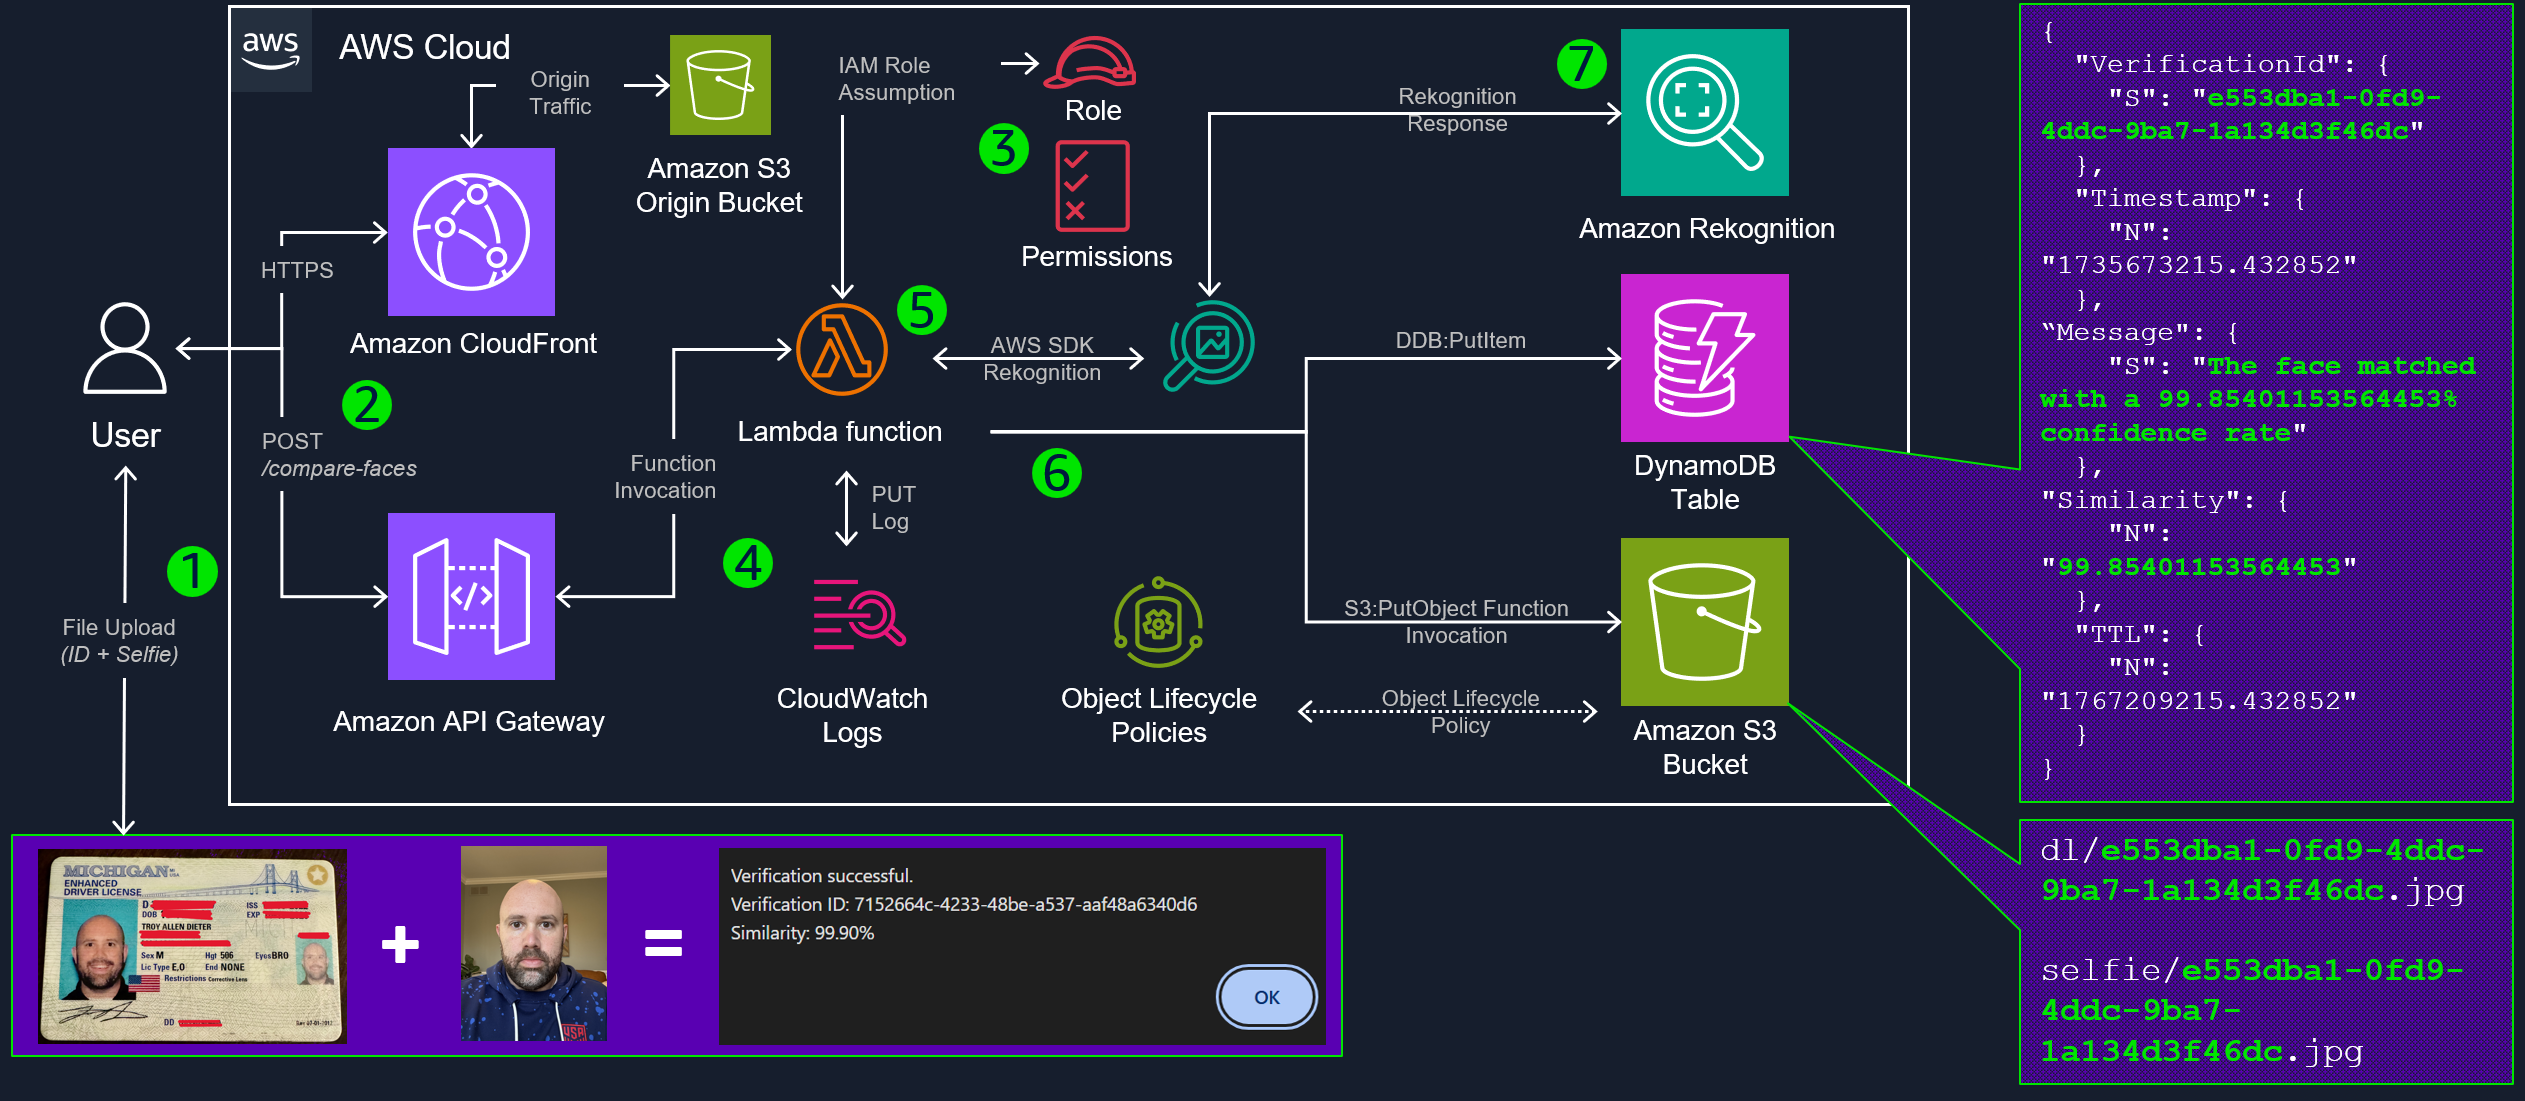
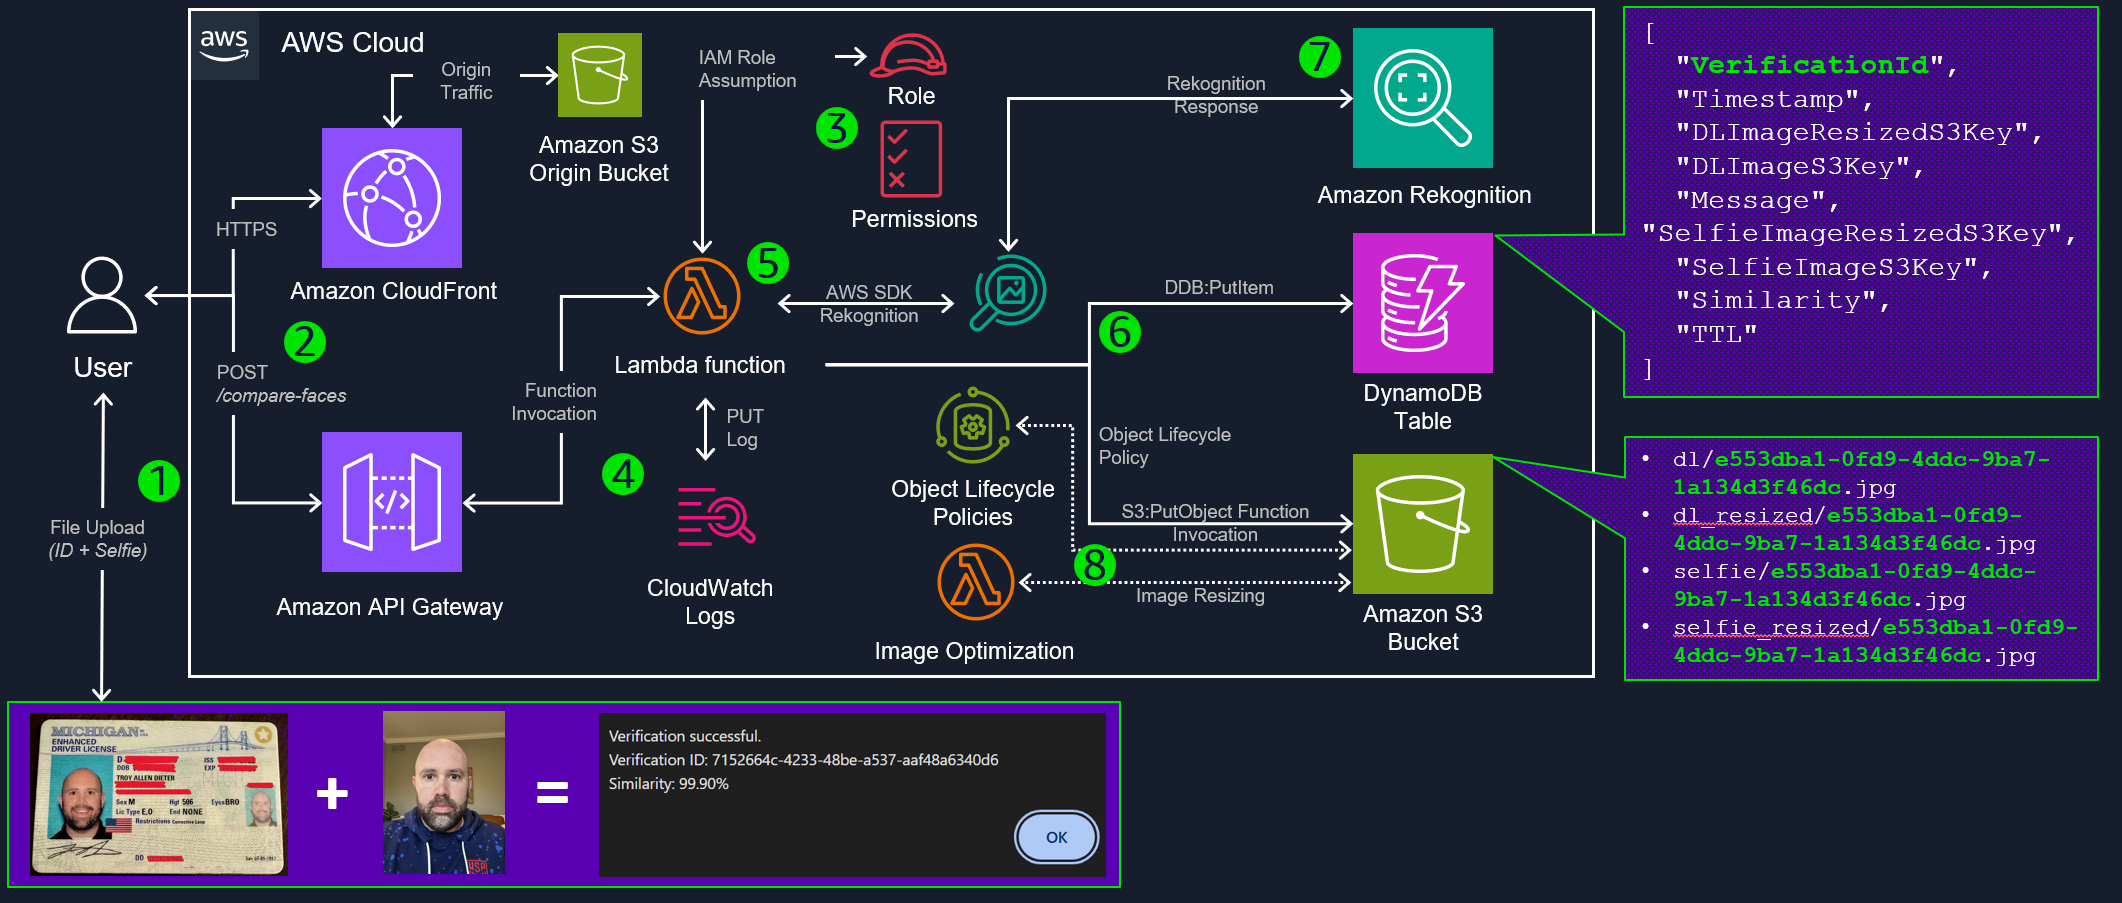
added image resizing feature and other upgrades

diff --git a/backend/lambda/basic_auth.js b/backend/lambda/basic_auth.js
@@ -4,7 +4,7 @@ function handler(event) {
   
     // basic auth
     var authUser = 'demo'; 
-    var authPass = '2813308004'; 
+    var authPass = 'demo'; 
     var authString = 'Basic ' + (authUser + ':' + authPass).toString('base64');
   
     if (typeof headers.authorization == 'undefined' || headers.authorization.value != authString) {

diff --git a/backend/idplusselfie/idplusselfie_stack.py b/backend/idplusselfie/idplusselfie_stack.py
@@ -7,11 +7,11 @@ from aws_cdk import (
     aws_dynamodb as dynamodb,
     aws_apigateway as apigateway,
     aws_s3 as s3,
-    aws_cloudfront as cloudfront,
-    aws_cloudfront_origins as cloudfront_origins,
+    aws_s3_notifications as s3n,
     RemovalPolicy,
     CfnOutput,
 )
+from cdk_klayers import Klayers
 from constructs import Construct
 
 
@@ -19,6 +19,16 @@ class IdPlusSelfieStack(Stack):
 
     def __init__(self, scope: Construct, construct_id: str, **kwargs) -> None:
         super().__init__(scope, construct_id, **kwargs)
+
+        # Initialize Klayers Class
+        klayers = Klayers(
+            self,
+            python_version=_lambda.Runtime.PYTHON_3_12,
+            region=self.region
+        )
+
+        # get the latest layer version for the PIL package
+        pil_layer = klayers.layer_version(self, "Pillow")
 
         # Create the S3 upload bucket
         upload_bucket = s3.Bucket(
@@ -35,12 +45,21 @@ class IdPlusSelfieStack(Stack):
                     transitions=[
                         s3.Transition(
                             storage_class=s3.StorageClass.INTELLIGENT_TIERING,
-                            # Move to Intelligent-Tiering after 30 days
-                            transition_after=Duration.days(30)
+                            # Move to Intelligent-Tiering after 31 days
+                            transition_after=Duration.days(31)
                         )
                     ],
                     # Delete objects after 1 year
                     expiration=Duration.days(365)
+                ),
+                # Expire the original uploads after 30 days
+                s3.LifecycleRule(
+                    prefix="dl/",
+                    expiration=Duration.days(30)
+                ),
+                s3.LifecycleRule(
+                    prefix="selfie/",
+                    expiration=Duration.days(30)
                 )
             ]
         )
@@ -99,6 +118,24 @@ class IdPlusSelfieStack(Stack):
         )
 
         upload_bucket.grant_read_write(id_delete_lambda)
+
+        id_compress_lambda = _lambda.Function(
+            self,
+            "IpsHandlerCompress",
+            code=_lambda.Code.from_asset("lambda"),
+            handler="id_compress_lambda.lambda_handler",
+            runtime=_lambda.Runtime.PYTHON_3_12,
+            memory_size=256,
+            timeout=Duration.seconds(30),
+            layers=[pil_layer],
+            environment={
+                "LOG_LEVEL": "INFO",  # Add a log level for runtime control
+                "S3_BUCKET_NAME": upload_bucket.bucket_name
+            },
+            log_retention=logs.RetentionDays.ONE_WEEK,  # Set log retention period
+        )
+
+        upload_bucket.grant_read_write(id_compress_lambda)
 
         verification_table.grant_read_write_data(id_create_lambda)
         verification_table.grant_read_write_data(id_delete_lambda)
@@ -248,6 +285,10 @@ class IdPlusSelfieStack(Stack):
             api_key_required=True,
         )
 
+        # S3 Event Notification - Compress
+        upload_bucket.add_event_notification(
+            s3.EventType.OBJECT_CREATED_PUT, s3n.LambdaDestination(id_compress_lambda))
+
         # Outputs to assist debugging and deployment
         self.output_cfn_info(verification_table, api, api_key, upload_bucket)
 
@@ -270,7 +311,8 @@ class IdPlusSelfieStack(Stack):
         CfnOutput(self, "ApiEndpoint_compare-faces-delete",
                   value=f"{api.url}compare-faces-delete",
                   description="Endpoint for deletion of a previous comparison",
-                  export_name=f"{self.stack_name}-ApiEndpoint-compare-faces-delete"
+                  export_name=f"{
+                      self.stack_name}-ApiEndpoint-compare-faces-delete"
                   )
 
         CfnOutput(self, "ApiKeyId",

diff --git a/backend/lambda/id_compress_lambda.py b/backend/lambda/id_compress_lambda.py
@@ -1,0 +1,64 @@
+import json
+from PIL import Image
+import boto3
+import os
+from io import BytesIO
+import urllib.parse
+
+s3_client = boto3.client('s3')
+
+def lambda_handler(event, context):
+    target_bucket_name = os.environ.get('S3_BUCKET_NAME')
+    if not target_bucket_name:
+        raise ValueError("Target bucket name is not set in environment variables.")
+    
+    try:
+        record = event['Records'][0]['s3']
+        bucket_name = record['bucket']['name']
+        object_key = urllib.parse.unquote_plus(record['object']['key'])
+        
+        print(f"Processing object: {object_key} from bucket: {bucket_name}")
+        
+        if object_key.startswith("resized_"):
+            print(f"Object {object_key} is already resized. Skipping processing.")
+            return create_response(200, 'Object already resized')
+
+        image_data = fetch_image(bucket_name, object_key)
+        resized_image = resize_image(image_data)
+        new_object_key = f"resized_{object_key}"
+        upload_image(resized_image, target_bucket_name, new_object_key)
+
+        return create_response(200, 'Compression Complete!')
+
+    except s3_client.exceptions.NoSuchKey:
+        print(f"Error: The object key '{object_key}' does not exist in the bucket '{bucket_name}'")
+        return create_response(404, 'Object not found')
+    except Exception as e:
+        print(f"Error processing object {object_key} from bucket {bucket_name}: {str(e)}")
+        return create_response(500, 'Internal server error')
+
+def fetch_image(bucket, key):
+    print(f"Fetching object: {key} from bucket: {bucket}")
+    response = s3_client.get_object(Bucket=bucket, Key=key)
+    return response['Body'].read()
+
+def resize_image(image_data):
+    image = Image.open(BytesIO(image_data))
+    width, height = image.size
+    resized = image.resize((width // 2, height // 2))
+    print(f"Resized image from {width}x{height} to {width // 2}x{height // 2}")
+    return resized
+
+def upload_image(image, bucket, key):
+    buffer = BytesIO()
+    image.save(buffer, format='JPEG', optimize=True, quality=70)
+    buffer.seek(0)
+    print(f"Uploading resized image to {bucket}/{key}")
+    response = s3_client.put_object(Bucket=bucket, Key=key, Body=buffer)
+    print(f"PutObject response: {response}")
+
+def create_response(status_code, message):
+    return {
+        'statusCode': status_code,
+        'body': json.dumps(message)
+    }

diff --git a/backend/lambda/id_create_lambda.py b/backend/lambda/id_create_lambda.py
@@ -106,6 +106,8 @@ def handle_api_request(body):
         # Upload files to S3
         dl_key = f"dl/{verification_id}.jpg"
         selfie_key = f"selfie/{verification_id}.jpg"
+        dl_resized_key = f"resized_dl/{verification_id}.jpg"
+        selfie_resized_key = f"resized_selfie/{verification_id}.jpg"
 
         s3_client.put_object(Bucket=S3_BUCKET_NAME, Key=dl_key, Body=dl_bytes)
         s3_client.put_object(Bucket=S3_BUCKET_NAME,
@@ -146,12 +148,13 @@ def handle_api_request(body):
             'Message': result['message'],
             'Timestamp': timestamp,
             'TTL': ttl,
-            'DLImageS3Key': dl_key,
-            'SelfieImageS3Key': selfie_key
+            'DLImageS3Key': f"s3://{S3_BUCKET_NAME}/{dl_key}",
+            'DLImageResizedS3Key': f"s3://{S3_BUCKET_NAME}/{dl_resized_key}",
+            'SelfieImageS3Key': f"s3://{S3_BUCKET_NAME}/{selfie_key}",
+            "SelfieImageResizedS3Key": f"s3://{S3_BUCKET_NAME}/{selfie_resized_key}"
         }
         table.put_item(Item=item)
-        logger.info(f"Result written to DynamoDB with VerificationId: {
-                    verification_id}")
+        logger.info(f"Result written to DynamoDB with VerificationId: {verification_id}")
 
         return cors_response(200, {
             'verificationId': verification_id,

diff --git a/backend/app.py b/backend/app.py
@@ -13,8 +13,8 @@ IdPlusSelfieStack(app, "idplusselfieStack",
                       'CDK_DEFAULT_ACCOUNT'), region=os.getenv('CDK_DEFAULT_REGION')),
                   )
 
-# Leave commented out until you've built (npm run build) the frontend in ../frontend
-# Uncomment the lines below and deploy via: cdk deploy --all
+##  Leave commented out until you've built (npm run build) the frontend in ../frontend
+##  Uncomment the lines below and deploy via: cdk deploy --all
 # SiteDistributionStack(app, "SiteDistributionStack",
 #                   env=cdk.Environment(account=os.getenv(
 #                       'CDK_DEFAULT_ACCOUNT'), region=os.getenv('CDK_DEFAULT_REGION')),

diff --git a/README.md b/README.md
@@ -35,6 +35,13 @@ This project provides a serverless API for comparing a user's selfie with their 
 4. CloudWatch Logs record the Lambda function's execution details.
 5. The item in the DynamoDB table, based on the primary key `VerificationId` is deleted along with the Amazon S3 objects (one of each). The response is sent back via the API call that it has been deleted successfully.
 
+#### /compare-faces-resizing
+![Visual AWS Architecture](./backend/docs/diagram03.png)
+1. The drivers license (ID) and selfie are uploaded.
+2. CloudWatch Logs record the Lambda function's execution details. The `eventSourceMapping` for Amazon S3 objects occurs, invoking the function.
+3. IAM Role assumes the necessary permissions for the Lambda function.
+4. The file is resized and optimized, and stored in the `dl_resized` or `selfie_resized` key (directories) in the Amazon S3 upload bucket. The lifecycle policy applies for 1yr/optimized and 30days/original.
+
 ## 01 - Deployment - Backend (`IdPlusSelfieStack`)
 
 This project is deployed using [AWS CDK](https://github.com/aws/aws-cdk) (`2.174.0`) for infrastructure as code. Follow these steps to deploy:
@@ -127,7 +134,7 @@ Before you begin, ensure you have the following installed:
     SiteDistributionStack.SiteDistributionName = dibc4iuf2q3bb.cloudfront.net
     ```
 
-    and enter the username (remember, it's `demo` as the username and `2813308004` as the password.)
+    and enter the username (remember, it's `demo` as the username and `demo` as the password.)
 
 ## Deployment Recap
 
